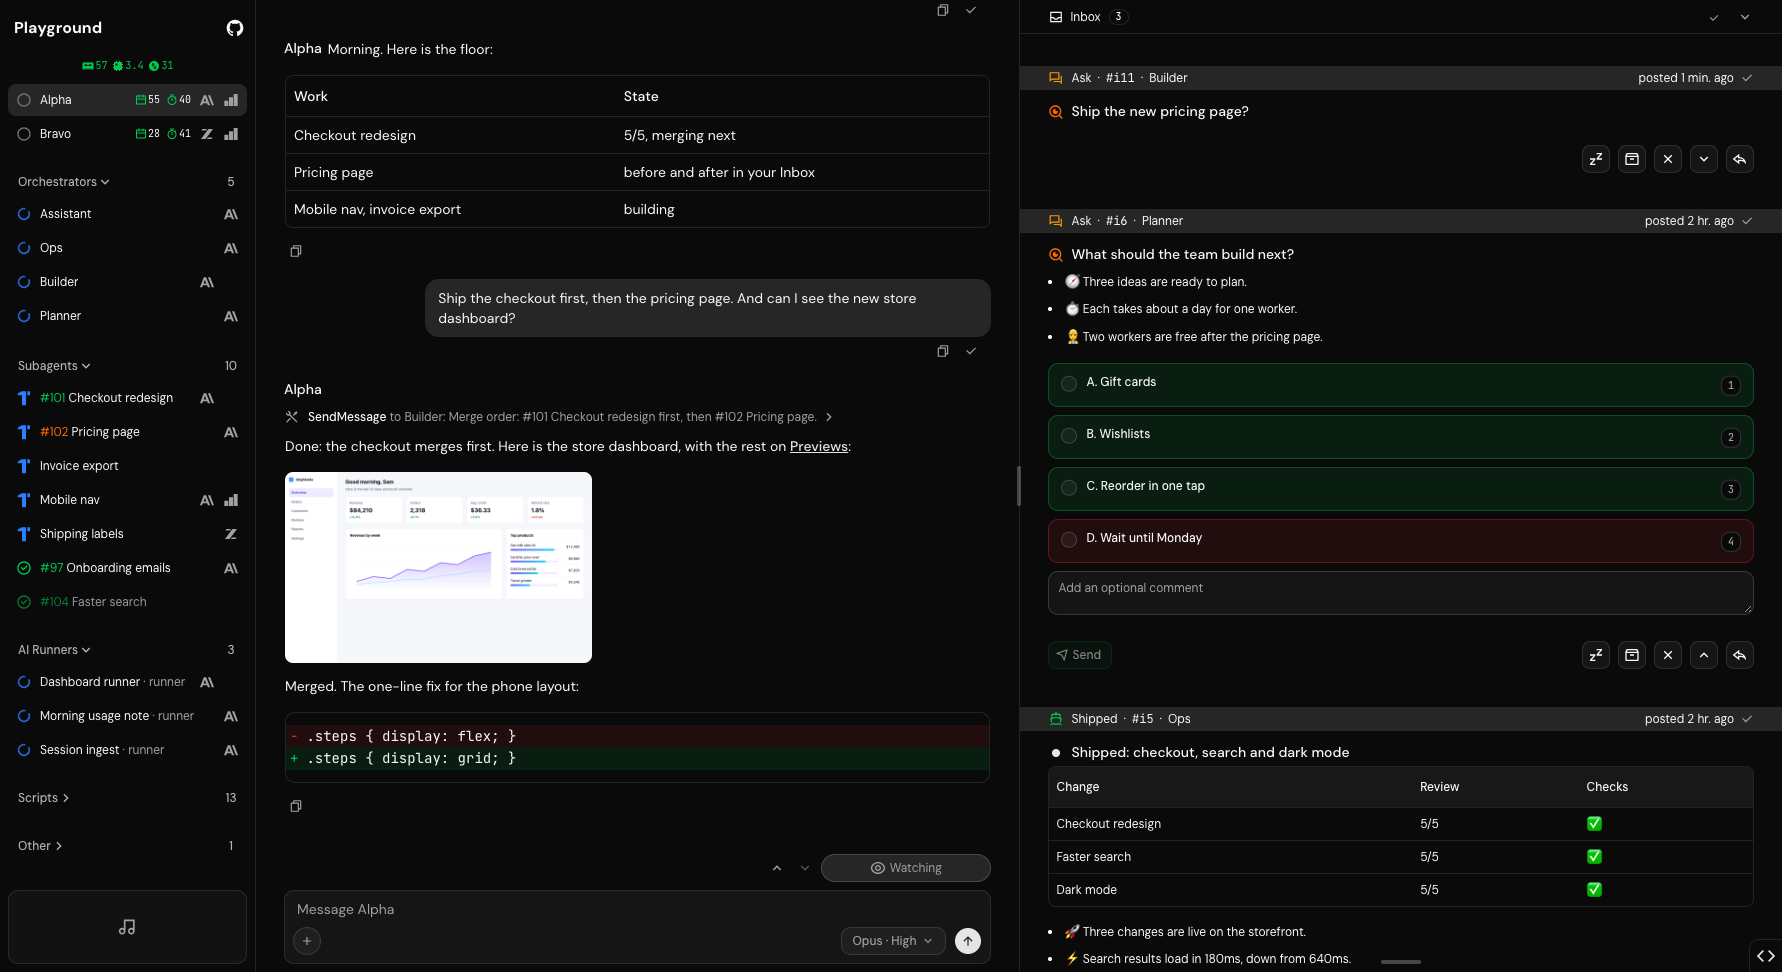
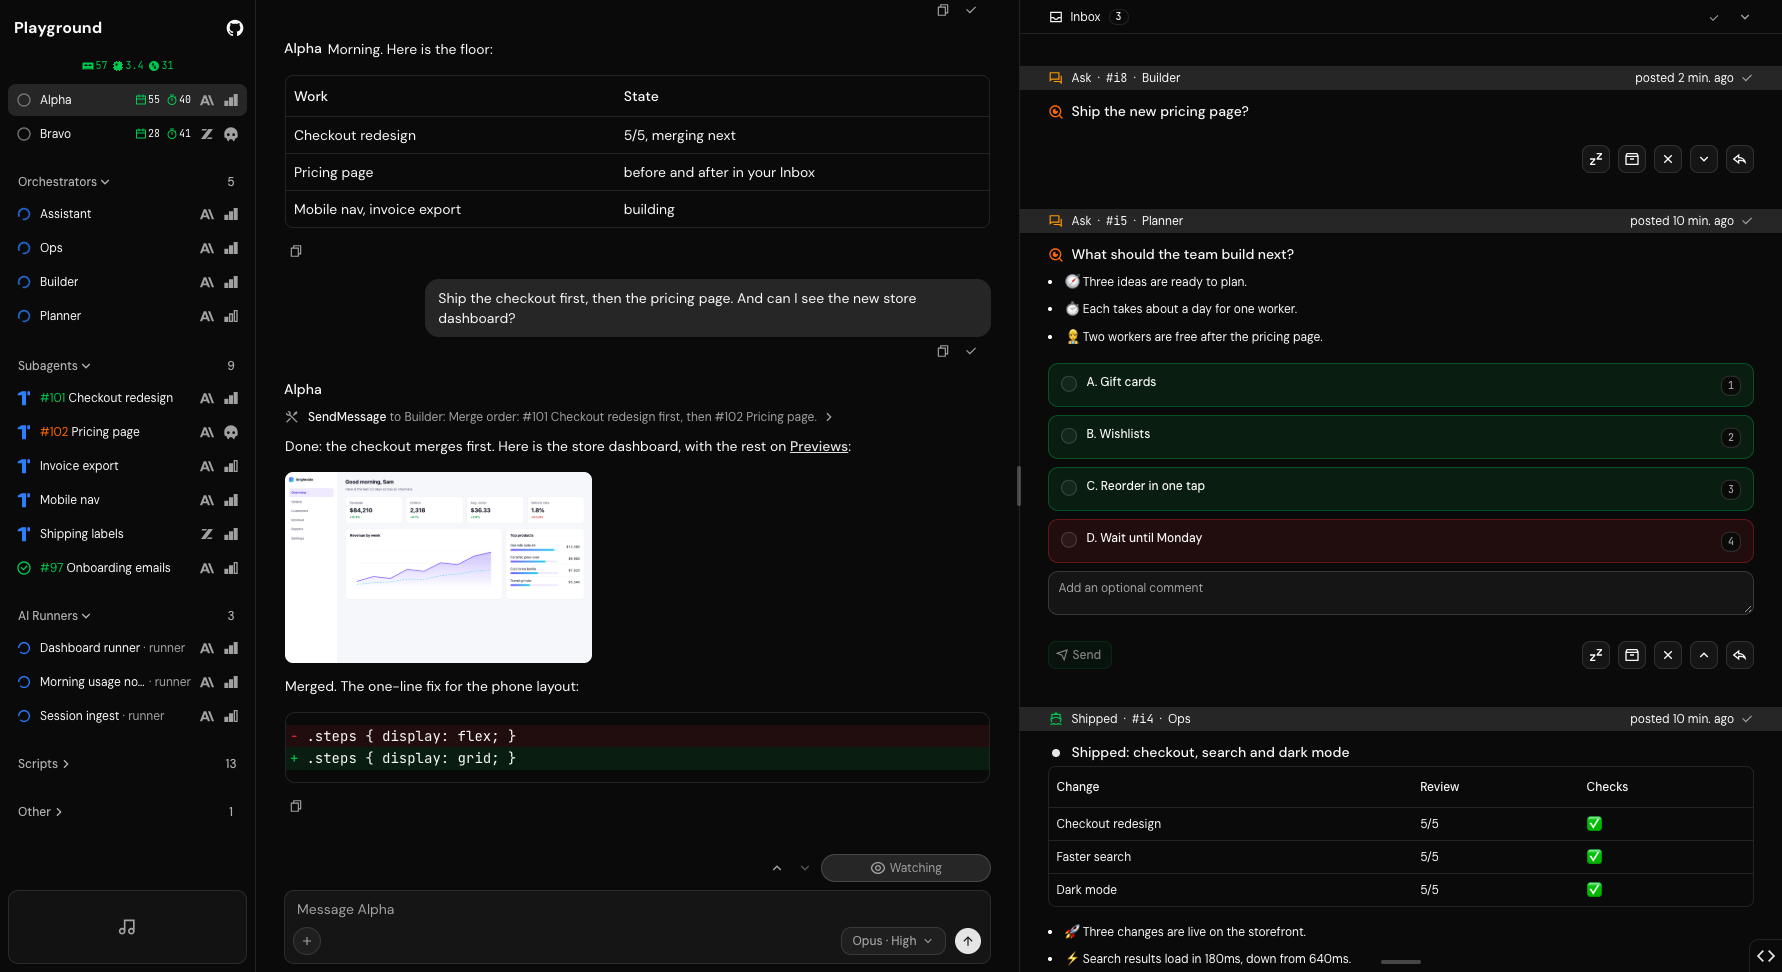
fix(PG-1630): every sidebar row keeps the effort's place (#1643)
## TL;DR

- 📶 In the sidebar, every session's model logo now sits in one straight column. A row with no effort keeps an empty space where the effort would go, so Assistant, Ops and Planner line up with Builder.
- 🖼 The four README pictures are taken again, and every session in them shows its effort level, mostly high, with some medium, low, max and xhigh.

## Summary

```diff
 ModelIcons (web/next/src/components/dashboard/app-sidebar.tsx)
   logo
   effort ? effort icon
-         : toggles && empty place      // only a row that opens kept the place
+         : empty place                 // every row keeps it, so the logos line up
```

- `.agents/dashboard/sidebar.md` and the comment above `ModelIcons` say the place stays on every row.
- `.github/assets/readme-*.png`: the four README shots, retaken from a fixture where every session has an effort.

## Evidence

- A/B: the new test is red on canary and green on this branch; the sidebar's logo column moves from two places (x≈207 and x≈231) to one (x≈207).
- **Before:** `tests/web/next/src/components/dashboard/app-sidebar.test.ts`, "a manager / runner / worker row that opens nothing keeps the effort's place": 3 fail on canary (the empty place is missing after the logo). In the before shot, Builder's logo is at x≈207 and Assistant's, Ops' and Planner's at x≈231.
[…]

diff --git a/web/next/src/components/dashboard/app-sidebar.tsx b/web/next/src/components/dashboard/app-sidebar.tsx
@@ -799,7 +799,7 @@ const PLUS_EFFORT_HIDDEN =
 
 const MODEL_ICON = "text-muted-foreground flex shrink-0 group-data-[collapsible=icon]:hidden"
 
-// A row's right end, ZeroSDK's: its provider's logo, naming its model on hover, then its effort's level, naming itself; with toggles, a row that opens, the effort gives way to the toggle (EFFORT_HIDDEN), and with no effort its place stays.
+// A row's right end, ZeroSDK's: its provider's logo, naming its model on hover, then its effort's level, naming itself; with toggles, a row that opens, the effort gives way to the toggle (EFFORT_HIDDEN), and with no effort its place stays on every row, so the logos line up.
 function ModelIcons({
   effort,
   effortHidden = EFFORT_HIDDEN,
@@ -830,7 +830,7 @@ function ModelIcons({
           </span>
         </Hint>
       ) : (
-        toggles && <span className="size-4 shrink-0" />
+        <span className="size-4 shrink-0 group-data-[collapsible=icon]:hidden" />
       )}
     </>
   )

diff --git a/tests/web/next/src/components/dashboard/app-sidebar.test.ts b/tests/web/next/src/components/dashboard/app-sidebar.test.ts
@@ -499,6 +499,24 @@ describe("SessionRow", () => {
     expect(tipsOf(bare)).toHaveLength(1)
   })
 
+  for (const [name, role] of [
+    ["ops", "manager"],
+    ["runner-pride", "runner"],
+    ["worker-greed", "worker"],
+  ] as const) {
+    test(`a ${role} row that opens nothing keeps the effort's place with no effort, so its logo lines up with a row that has one`, () => {
+      const html = row(name, role, [], { model: "claude-opus-5-5" })
+      const logo = html.indexOf(pathOf(RiAnthropicFill))
+      expect(logo).toBeGreaterThan(-1)
+      expect(
+        html.indexOf(
+          '<span class="size-4 shrink-0 group-data-[collapsible=icon]:hidden"></span>',
+          logo,
+        ),
+      ).toBeGreaterThan(logo)
+    })
+  }
+
   test("an idle worker, a runner and a manager show no ETA", () => {
     const eta = "2026-10-06T12:20:00.000Z"
     expect(tipLines(row("worker-greed", "worker", [], { eta, light: "idle" }))).toContain("Idle")

diff --git a/.agents/dashboard/sidebar.md b/.agents/dashboard/sidebar.md
@@ -184,6 +184,7 @@
   Every session row is one line, ZeroSDK's: its icon (while it works or fixes, its roster kind's task icon in that light's tone, `taskIcon` in `web/next/src/lib/status-icons.ts`: a globe for a researcher, an eye for a reviewer, a test tube for a tester, a hammer for a worker), its title, then the dispatcher's usage readings,
   then at its right end its provider's logo (`PROVIDER_ICONS` by `providerOf` in `web/next/src/lib/model-label.ts`, Remix's Anthropic mark, ZeroSDK's glyph drawn larger in its box, and ZeroSDK's Z for Z.ai, `ZaiLogo`), naming the model on hover, and its effort's icon (`effortIcon`), naming the level (`ModelIcons`).
   A row that opens shows its chevron in the effort's place on hover, on keyboard focus, while open and always on a phone (`TOGGLE_SHOWN` and `EFFORT_HIDDEN`, ZeroSDK's `toggleShown` and `effortHidden`), so the two share one place.
+  A row with no effort keeps the effort's place empty, whether it opens or not, so the logos line up down the sidebar.
   The rest of the row's words are in the title's tooltip, a line each: its full name (a dispatcher's label names it instead), its title whole,
   the model and the effort its newest reply ran with (`modelName`, which names a model by `MODEL_FAMILIES` and else shows its id; `rowLines` builds the lines), its state in the same word its icon draws (Worker Lights, above), `Draft` while its composer holds an unsent draft and, for a worker that is working or stuck,
   the time left to the ETA the roster holds for it (`~20m`, in hours from about an hour out (`~1h`, `~2h`), nothing once it passes or when the roster has none; `timeLeft`, `shownEta` by its held light, none once its pull request is merged or it sits paused on a usage limit), and what the state holds (`review round 2`, the approvals still needed, why it is parked),
